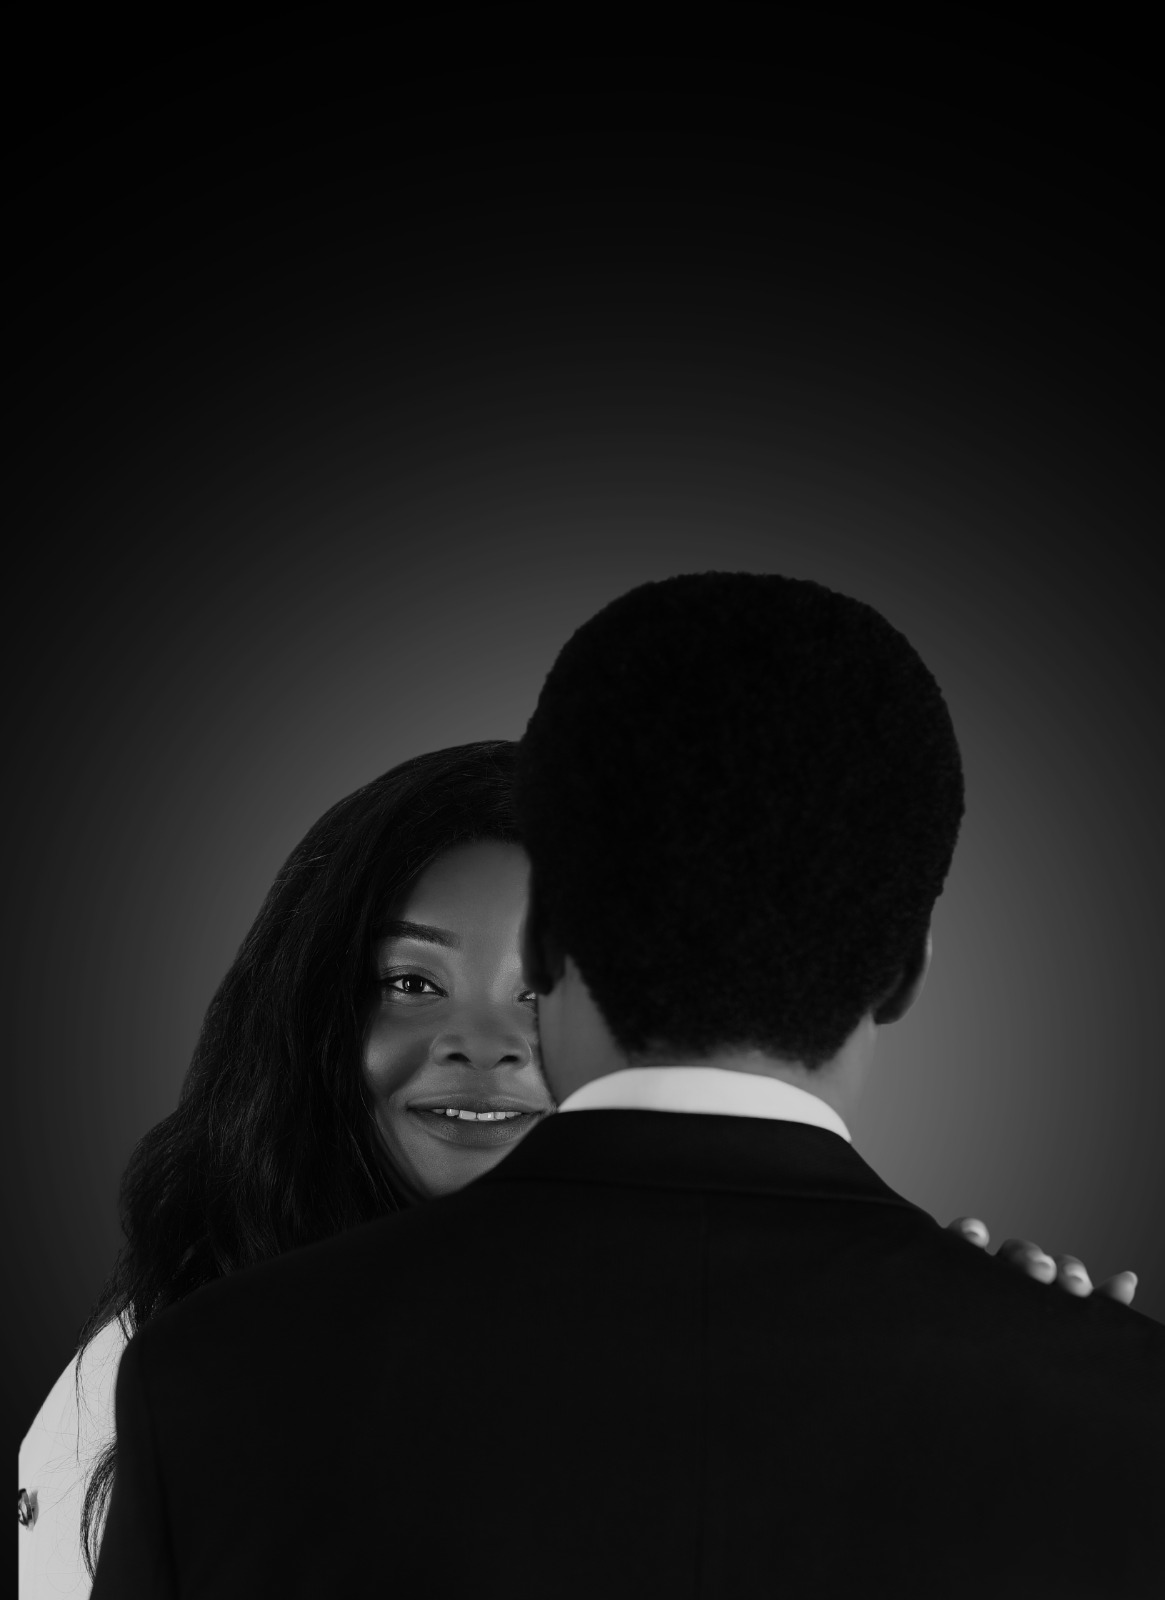
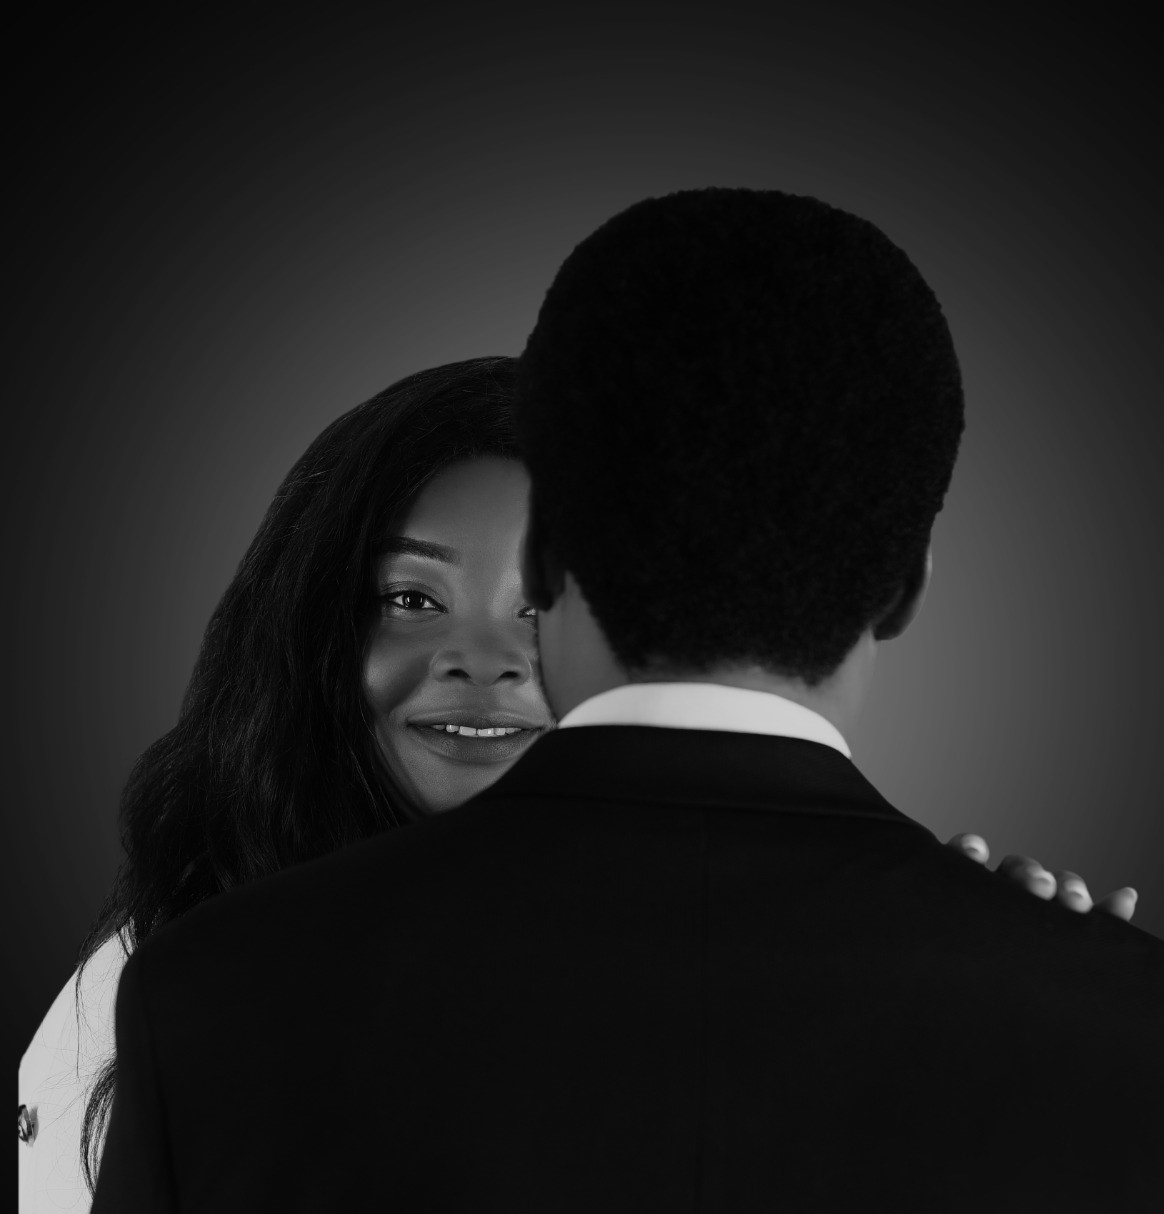
Home page picture responsive

diff --git a/css/main.css b/css/main.css
@@ -3,12 +3,23 @@ body {
 
 /* Home Page Style */
 .ww-home-page {
-  background: url("../images/fpage.JPG") no-repeat center center;
+  background: url("../images/fp.jpg") no-repeat center center;
   background-size: cover;
-  background-position: 70%;
-  height: 130vh;
+  background-position: 100%;
+  height: 150vh;
   min-height: 480px;
   max-height: 1080px; }
+
+@media (max-width: 720px) {
+  .ww-home-page {
+    background: url("../images/fp.jpg") no-repeat center center;
+    background-size: cover;
+    background-position: 100%;
+    height: 100vh;
+    min-height: 480px;
+    max-height: 1080px; }
+}
+
   .ww-home-page .ww-wedding-announcement {
     width: 100%;
     max-width: 1600px;
@@ -40,7 +51,7 @@ body {
   background-color: rgba(245, 138, 119, 0.2);
   width: 100%;
   height: 100%;
-  height: 100vh;
+  height: 150vh;
   min-height: 480px;
   max-height: 1080px;
   position: absolute;
